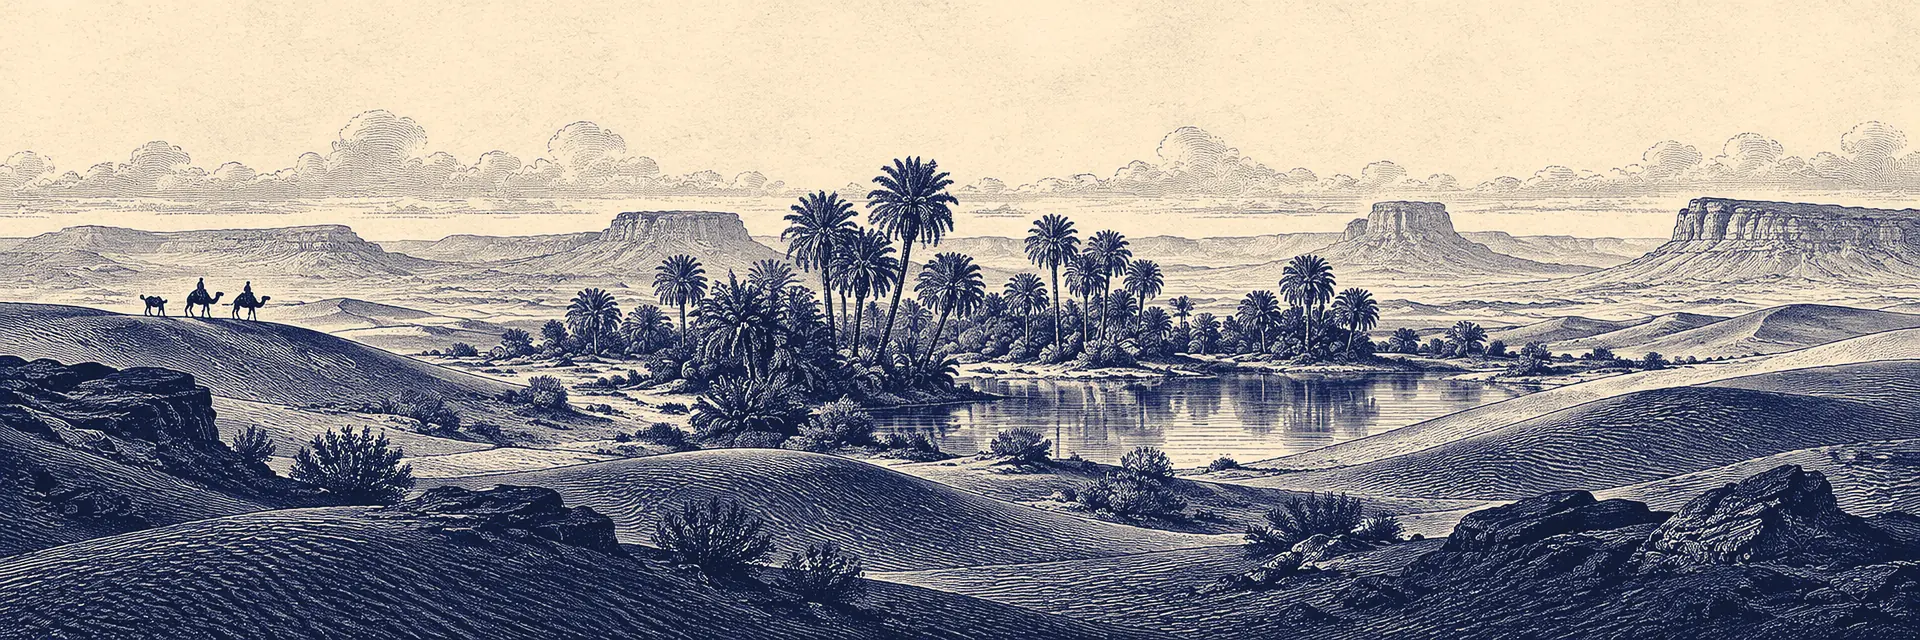
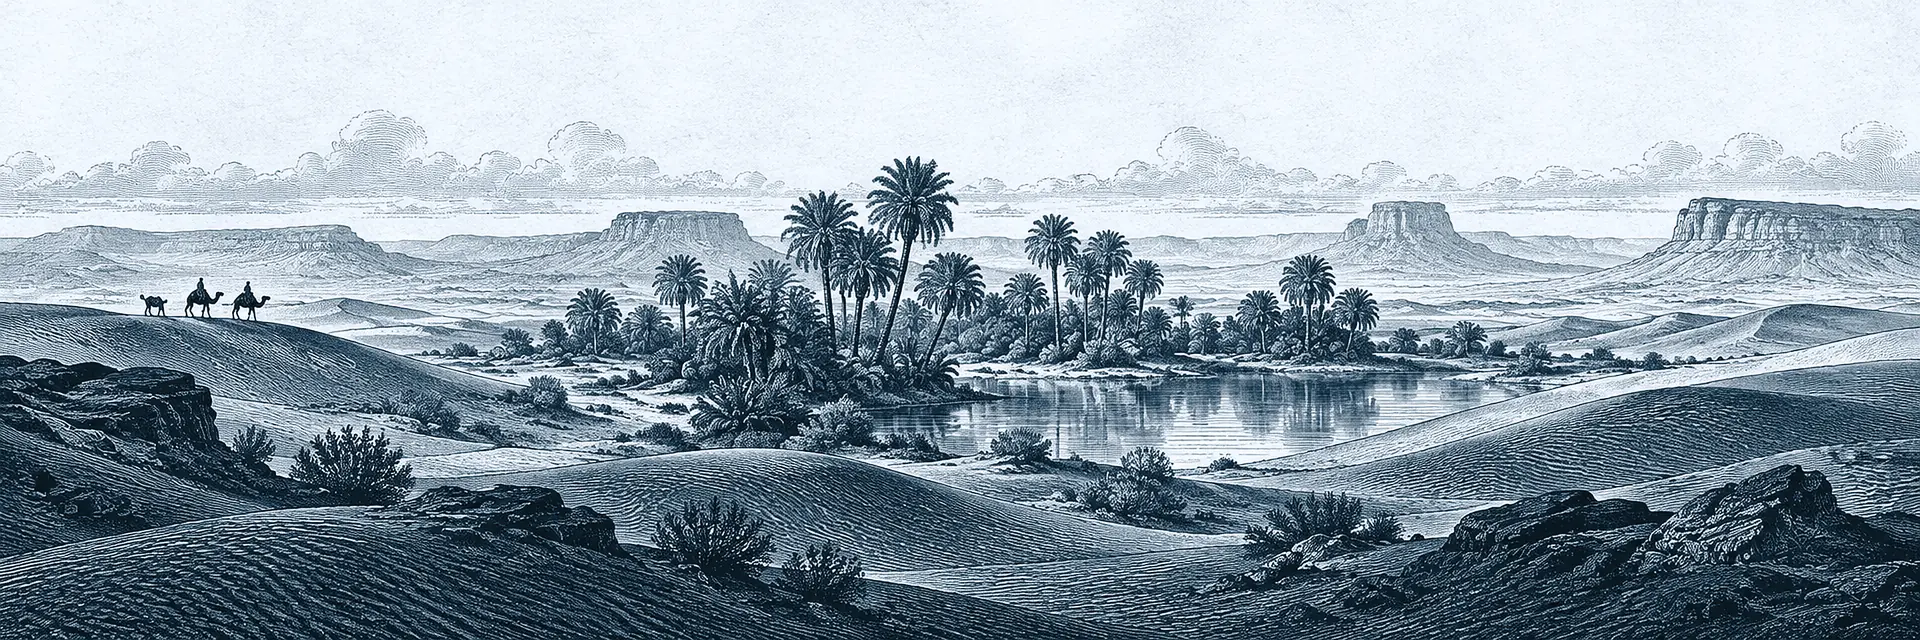
Web footer: paper and ink from semantic tokens only
The panel is bg-accent (blue.50) and the plate is re-inked in
foreground + brand on that same accent paper with background highlights,
replacing the amber/azure primitives. .kx-print-surface also pins
accent and surface-grouped to their light aliases.

Claude-Session: https://claude.ai/code/session_01Hxn5m3KJAwbf5oza7D6ghF

diff --git a/apps/web/src/components/site-footer.tsx b/apps/web/src/components/site-footer.tsx
@@ -33,21 +33,20 @@ const COLS: { title: string; links: { label: string; href: string }[] }[] = [
 ];
 
 /*
-  The footer is a print surface: the engraving (design-assets/) is inked in palette primitives —
-  `azure.1000`/`azure.950` on `amber.150` paper, the nearest steps to the art direction's Prussian blue and
-  parchment — and the panel is that same paper, so the plate's sky is the panel. Everything set on it uses
-  the site's semantic tokens, pinned to their light values by `.kx-print-surface` because the paper stays
-  light in both themes: the mark matches the header (`primary`), headings are `foreground` (16.9:1) and the
-  secondary text is `foreground` at 70% (7.1:1). `muted-foreground` is 4.4:1 on this paper, so it is not used.
-  Dark mode dims the whole sheet to 85% rather than inverting it (an inverted engraving reads as a
-  photographic negative); the dimmed pairs stay at 12.1:1 and 6.0:1.
+  The footer is a print surface set entirely in the site's semantic tokens: the engraving (design-assets/) is
+  inked in `foreground` and `brand` on `accent` paper, highlights in `background`, and the panel is that
+  same token, so the plate's sky is the panel. `.kx-print-surface` pins these tokens to their light values
+  because the paper stays light in both themes. The mark matches the header (`primary`), headings are
+  `foreground` (18.2:1) and the secondary text is `foreground` at 70% (7.3:1) — `muted-foreground` would drop
+  to 4.3:1 once dark mode dims the sheet. Dark mode dims it to 85% rather than inverting it (an inverted
+  engraving reads as a photographic negative); the dimmed pairs stay at 13.0:1 and 6.3:1.
 */
 const focusRing =
-  "rounded-sm focus-visible:outline-none focus-visible:ring-2 focus-visible:ring-ring focus-visible:ring-offset-2 focus-visible:ring-offset-[hsl(var(--amber-150))]";
+  "rounded-sm focus-visible:outline-none focus-visible:ring-2 focus-visible:ring-ring focus-visible:ring-offset-2 focus-visible:ring-offset-accent";
 
 export function SiteFooter() {
   return (
-    <footer className="kx-print-surface relative overflow-hidden bg-[hsl(var(--amber-150))] text-foreground dark:brightness-[0.85]">
+    <footer className="kx-print-surface relative overflow-hidden bg-accent text-foreground dark:brightness-[0.85]">
       {/* Paper grain: a seamless 384px tile under everything, so the plain panel and the plate read as one sheet.
           `overlay` against mid-grey is neutral on average, so it textures the parchment without dulling it. */}
       <div

diff --git a/apps/web/src/app/globals.css b/apps/web/src/app/globals.css
@@ -906,6 +906,8 @@
     --primary-foreground: var(--blue-50);
     --border: var(--blue-100);
     --ring: var(--azure-700);
+    --accent: var(--blue-50);
+    --surface-grouped: var(--neutral-100);
   }
 
   /* vertical margin rules at a container's edges — graph-paper structure */
